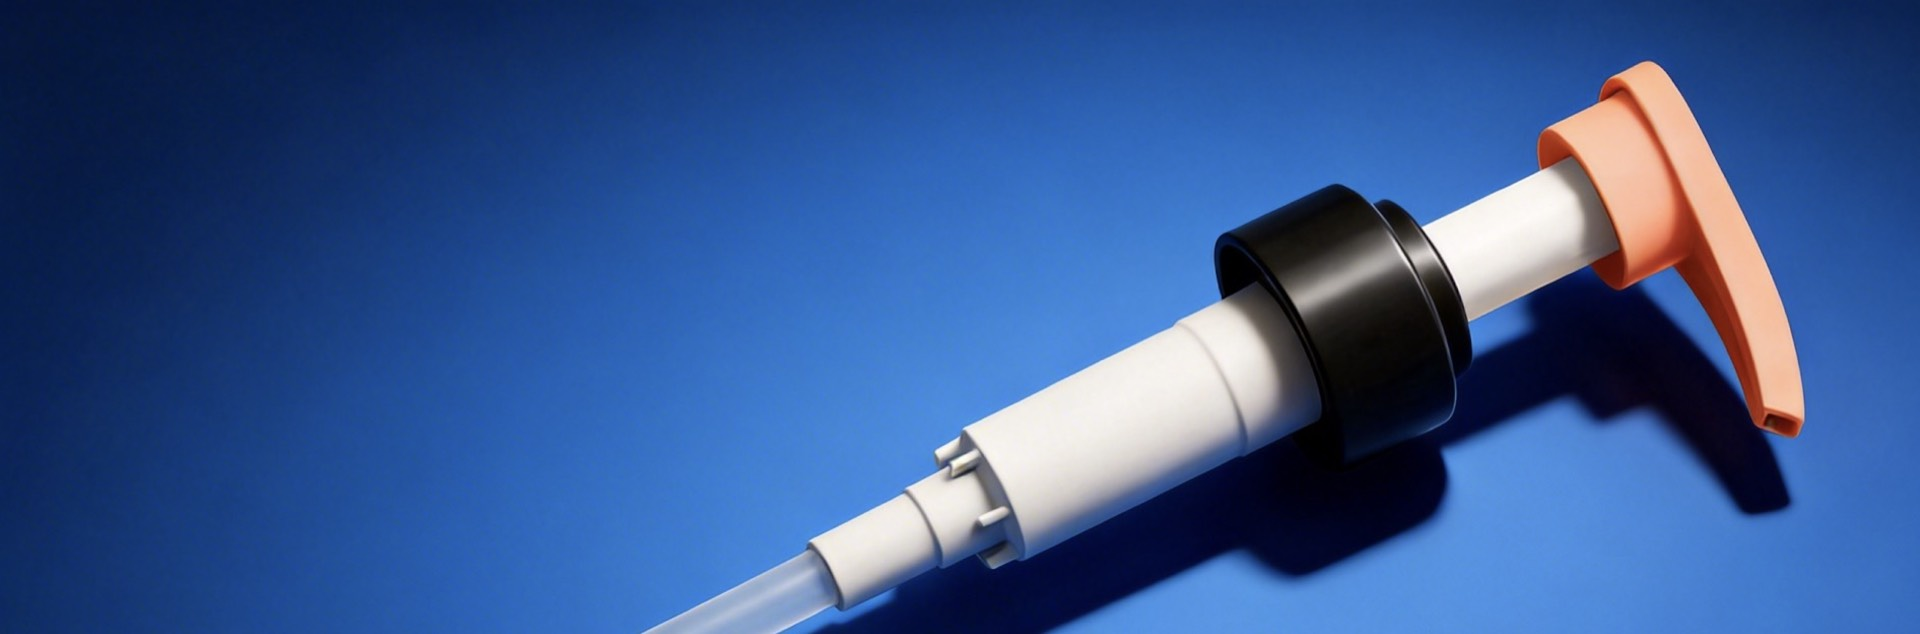
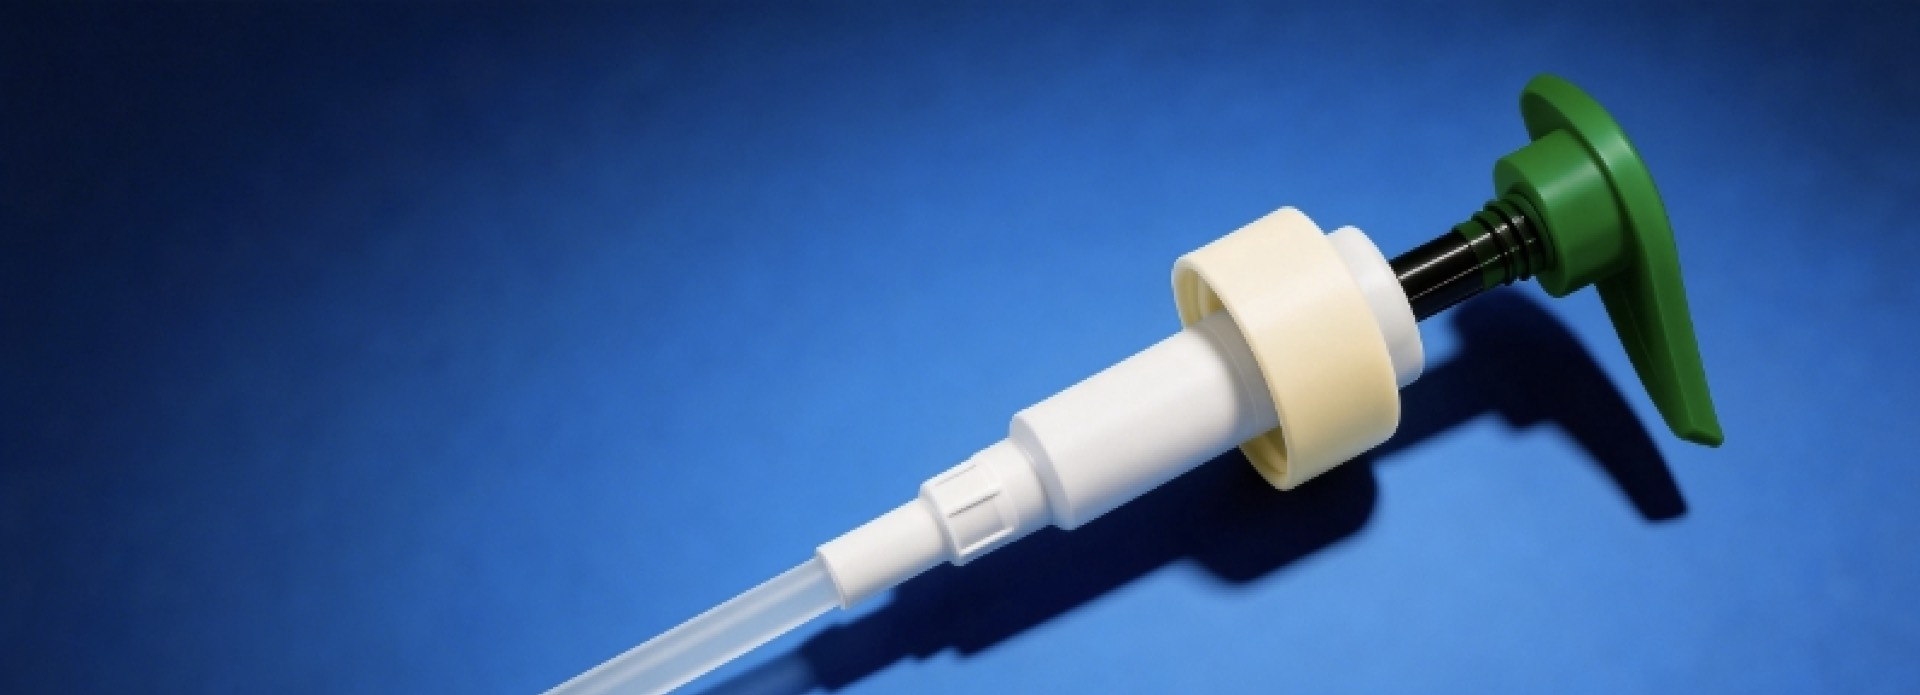
Update banner401 and banner405 images, compress and fix paths

Changed region(s): [[0.2812, 0.0899, 0.9688, 1.0], [0.3438, 0.0, 0.4375, 0.0599], [0.25, 0.0, 0.3125, 0.0599]]

diff --git a/index.html b/index.html
@@ -124,7 +124,7 @@
 
             <!-- 405 Series -->
             <div class="product-series" data-series="405">
-                <div class="series-header lazy-bg" data-bg="assets/images/banners/banner401.jpg">
+                <div class="series-header lazy-bg" data-bg="assets/images/banners/banner405.jpg">
                     <div class="series-header-overlay"></div>
                     <div class="series-header-content">
                         <span class="series-badge">405</span>
